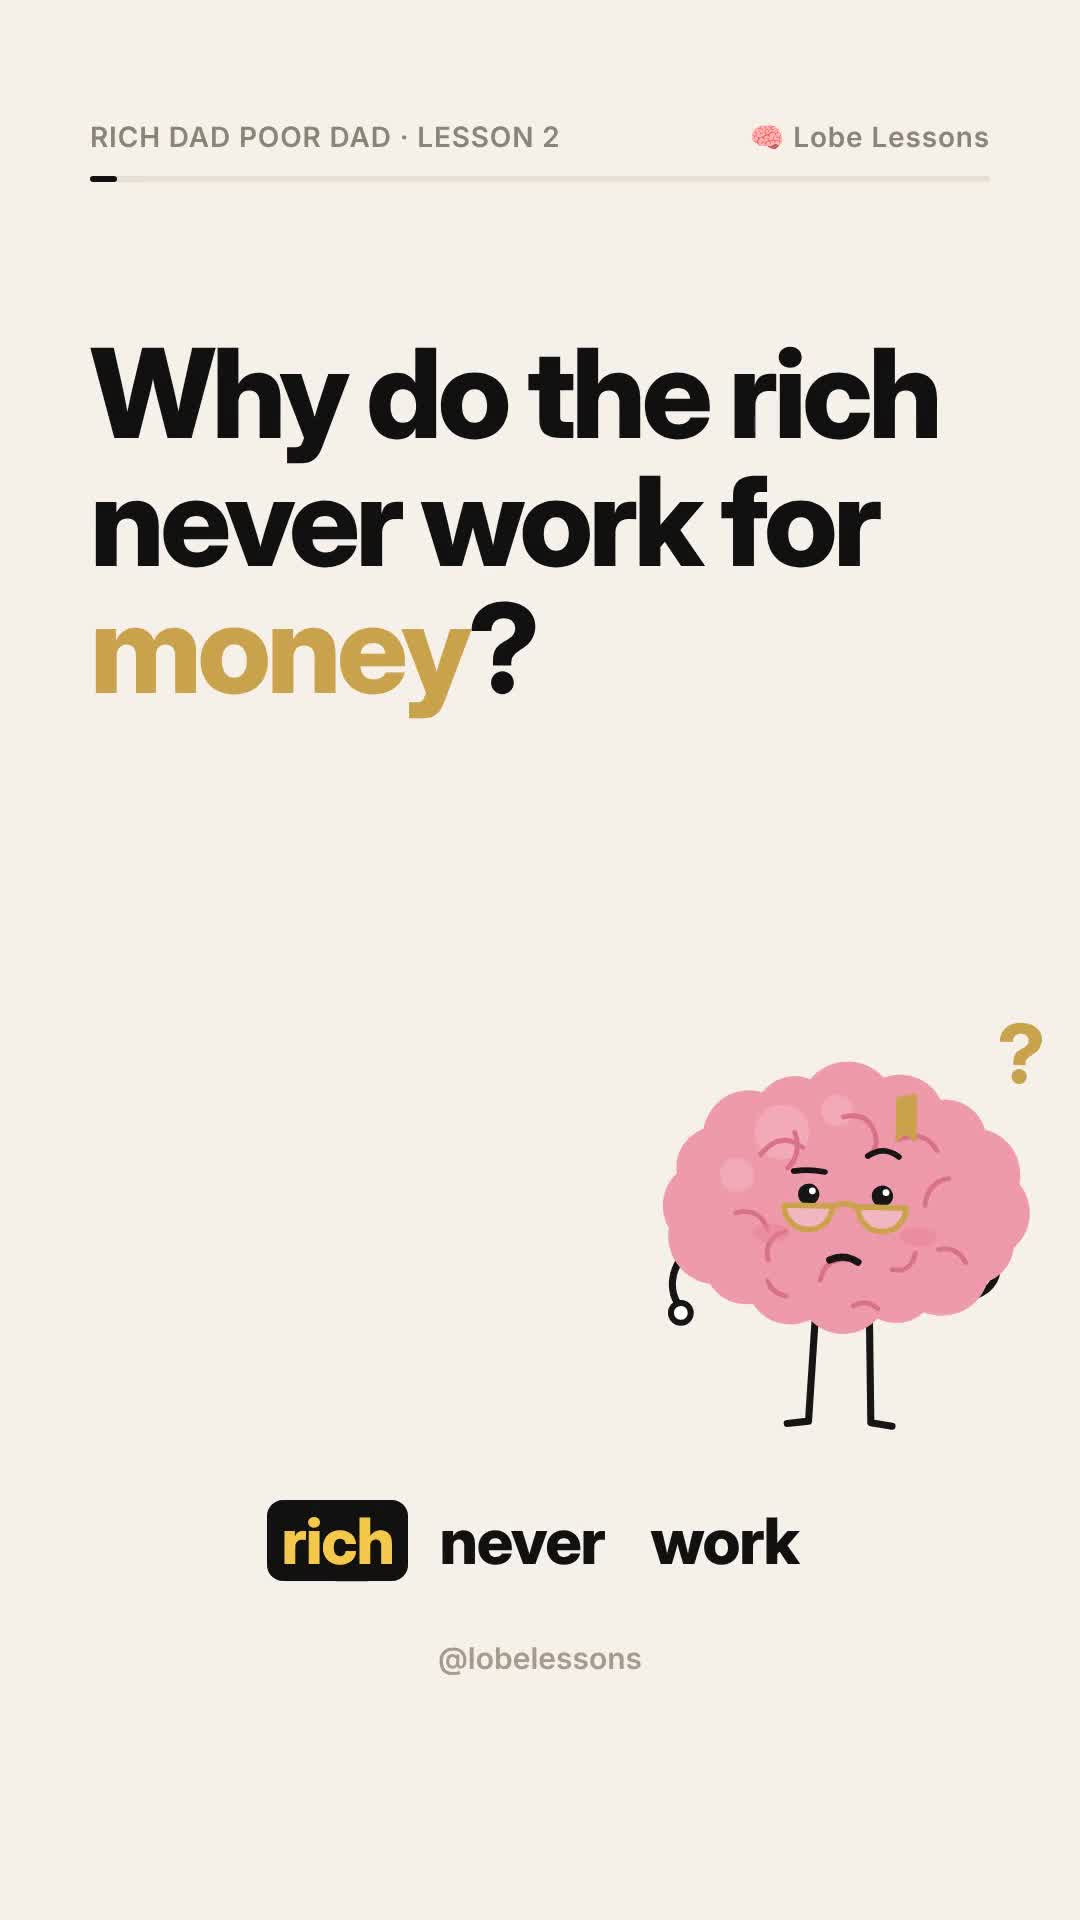
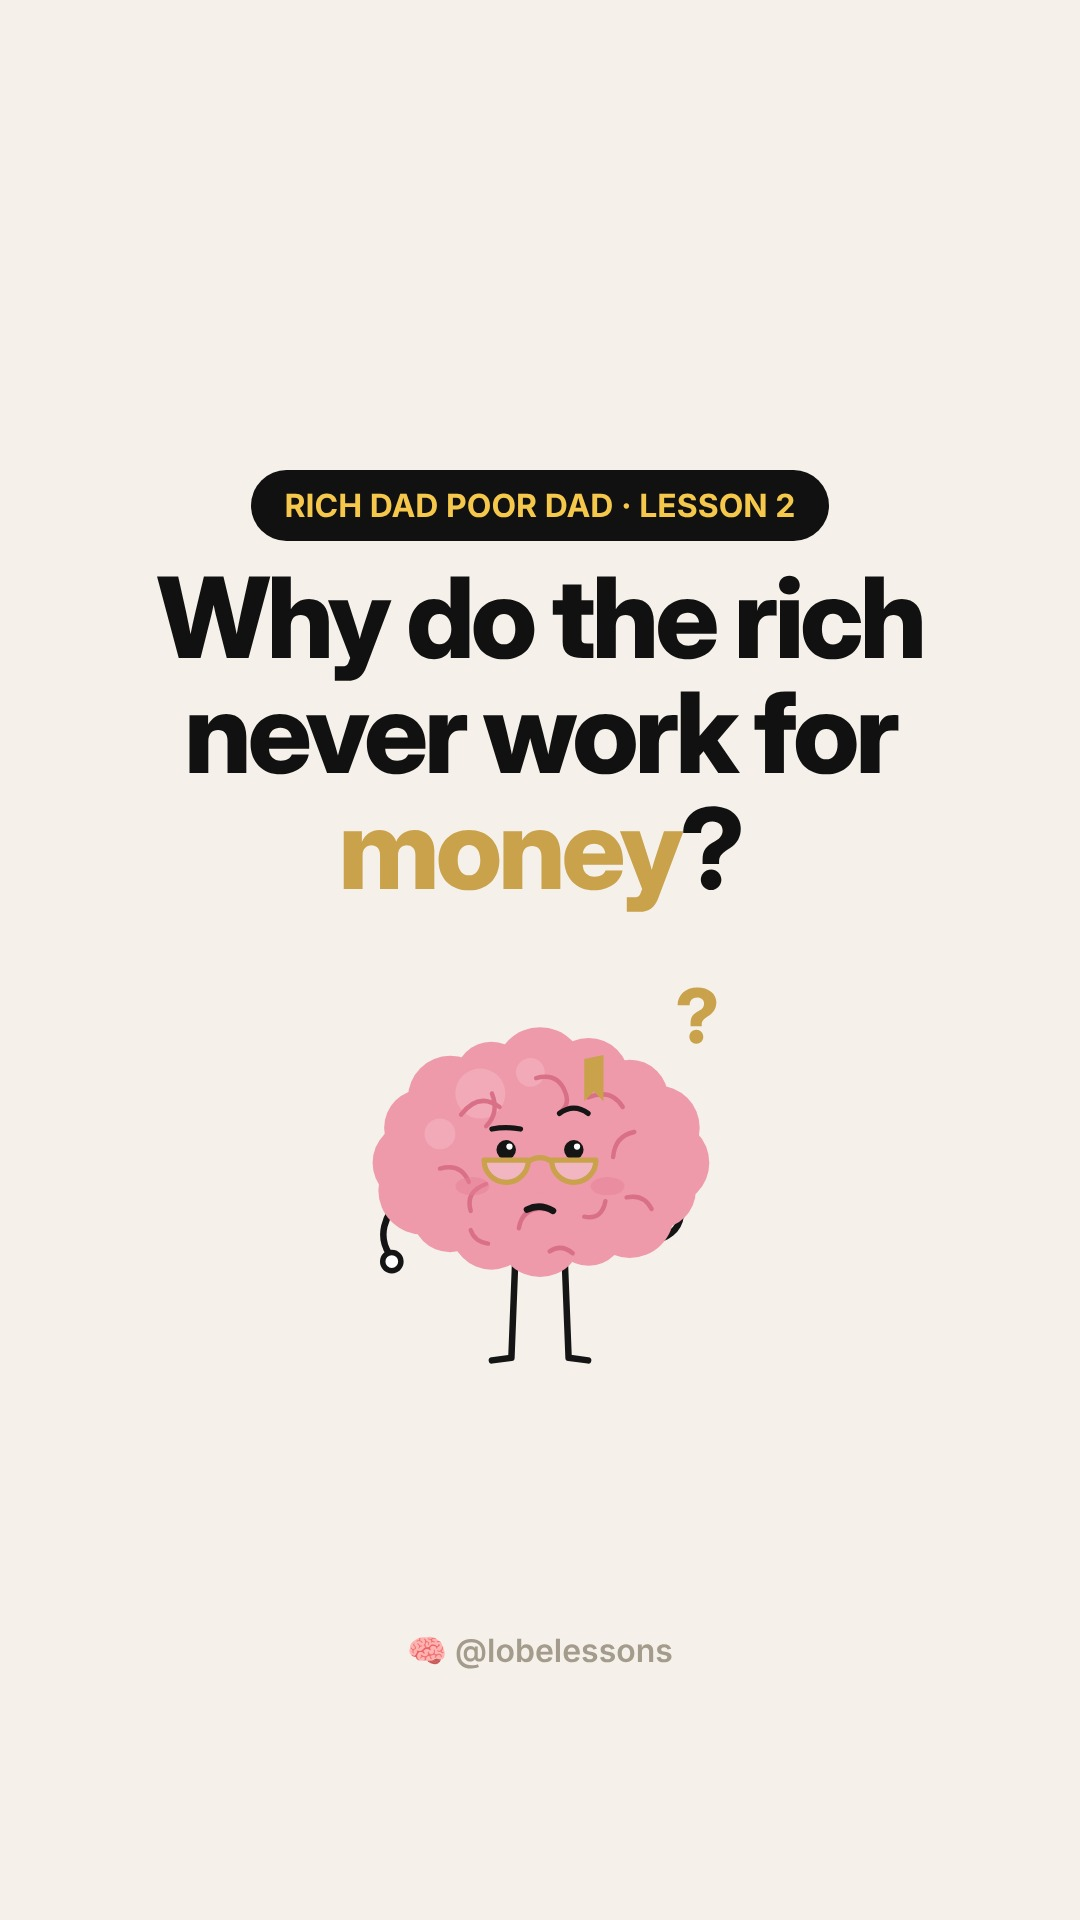
Designed Reel covers (hook + Lobe) and day 2 cover
Claude-Session: https://claude.ai/code/session_01S7xrfgRerDudK1H6Nqnn2f

diff --git a/pipeline/render.js b/pipeline/render.js
@@ -85,6 +85,27 @@ const CSS = `
 
 async function main() {
   const b = await chromium.launch();
+  if (MODE === 'cover') {
+    // Reel/Short cover: hook + Lobe, all key content inside the centre square (y 420-1500) so grid crops stay clean.
+    const sh = spec.short; const cv = sh.cover || {};
+    const first = sh.scenes[0]; const hl = (first.els || []).find(e => e.type === 'headline');
+    const html = cv.html || (hl ? hl.html : spec.lesson);
+    const p = await b.newPage({ viewport: { width: 1080, height: 1920 } });
+    await p.setContent(`<html><head><meta charset="utf-8"><style>${CSS}
+      .v{width:1080px;height:1920px;background:#F5F1EA;position:relative;overflow:hidden;color:#111}
+      .tag{position:absolute;top:470px;left:0;right:0;text-align:center}
+      .hook{position:absolute;top:560px;left:80px;right:80px;text-align:center}
+      .lobe{position:absolute;left:50%;top:960px;width:${cv.size || 520}px;margin-left:-${(cv.size || 520) / 2}px}
+      .hdl{position:absolute;bottom:250px;left:0;right:0;text-align:center;font:600 32px Inter;color:#a39b8c}
+      </style></head><body><div class="v">
+      <div class="tag"><span class="pill" style="background:#111;color:#F5C84C;font-size:32px">${(sh.label || '').replace('·', '·')}</span></div>
+      <div class="hook"><div class="h" style="font-size:${cv.textSize || 112}px">${mk(html)}</div></div>
+      <div class="lobe">${M(cv.pose || (first.lobe && first.lobe.pose) || 'think')}</div>
+      <div class="hdl">🧠 @lobelessons</div></div></body></html>`);
+    await p.waitForTimeout(150);
+    await p.screenshot({ path: path.join(OUT, 'cover.jpg'), type: 'jpeg', quality: 92 });
+    await b.close(); console.log('cover ok'); return;
+  }
   if (MODE === 'carousel') {
     const car = spec.carousel; const N = car.slides.length;
     const p = await b.newPage({ viewport: { width: 1080, height: 1350 } });

diff --git a/RUNBOOK.md b/RUNBOOK.md
@@ -36,13 +36,13 @@ Find the Notion row where Date = tomorrow (also handle today's row first if it's
    - **Captions:** `youtube_title` (≤ 90 chars, ends with `#shorts`), `short`, `carousel` (hook line, 2–3 lines of value, a question for comments, "🔖 Save this", hashtags incl. `#lobelessons`), `youtube_tags`.
 2. **Accuracy rules:** state only what the book actually says or widely documented facts. Mark any example numbers "Example". Never reproduce more than a short phrase from a book. Never draw a real book cover: use the `book` element (our neutral white card). No financial "advice" claims; frame things as lessons from the book.
 3. **Preview:** `bash pipeline/build.sh days/dayNN.json stills`, then **look at** `/home/claude/lobe_out/dayNN/short_contact.png` and `carousel_contact.png`. Fix overflow, overlaps (Lobe must never cover text), awkward wraps, or empty slides. Repeat until clean.
-4. **Full build:** `bash pipeline/build.sh days/dayNN.json` → `short.mp4`, `cover.jpg`, `carousel/slide_*.jpg`.
+4. **Full build:** `bash pipeline/build.sh days/dayNN.json` → `short.mp4`, `cover.jpg` (designed Reel cover: hook + Lobe; optional `short.cover` {html, pose, textSize} in the spec, defaults to the first scene's headline), `carousel/slide_*.jpg`. Check `cover.jpg` too: the hook must be fully readable inside the centre square.
 5. **Publish media:** `bash pipeline/publish.sh days/dayNN.json` → prints public URLs. If the script can't confirm, check one URL with WebFetch before scheduling.
 6. **Schedule in Metricool** with `createScheduledPost` (blogId 7506135, timezone Africa/Tunis, autoPublish true) on the row's date. Use `getBestTimeToPostByNetwork` for that date. Default slots:
    - Instagram **carousel** (type POST, media = slide URLs in order): 10:00
    - TikTok **photo carousel** (same slide URLs): 12:00
    - YouTube **Short** (type short, madeForKids false, category EDUCATION, title = youtube_title, tags): 16:00
-   - Instagram **Reel** (type REEL, media = short.mp4): 18:00
+   - Instagram **Reel** (type REEL, media = short.mp4, **`videoThumbnailUrl` = the COVER url** from publish.sh): 18:00
    - TikTok **video** (short.mp4): 18:30
    - **TikTok always needs `tiktokData.title`** (short hook, ≤ 60 chars), or the call fails.
    - Media URLs = the public URLs printed by publish.sh. Metricool copies them into its own storage when you schedule.
